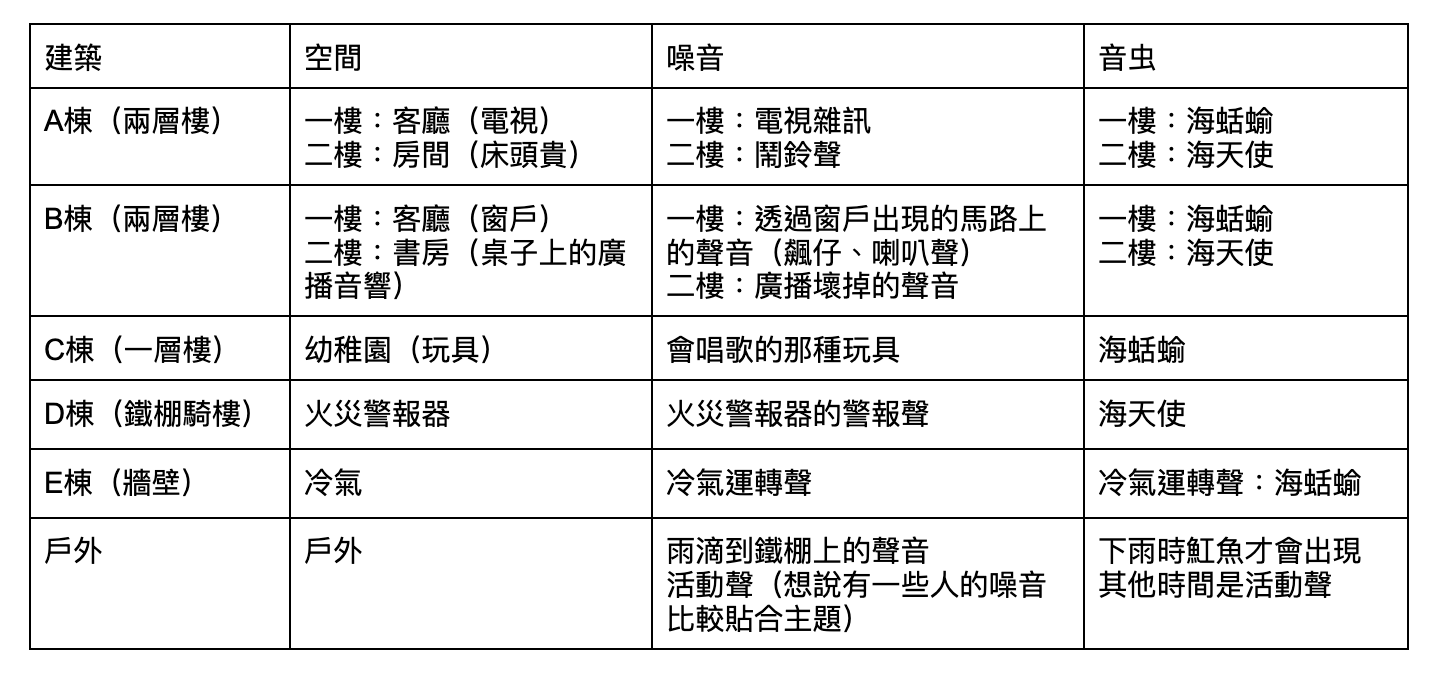
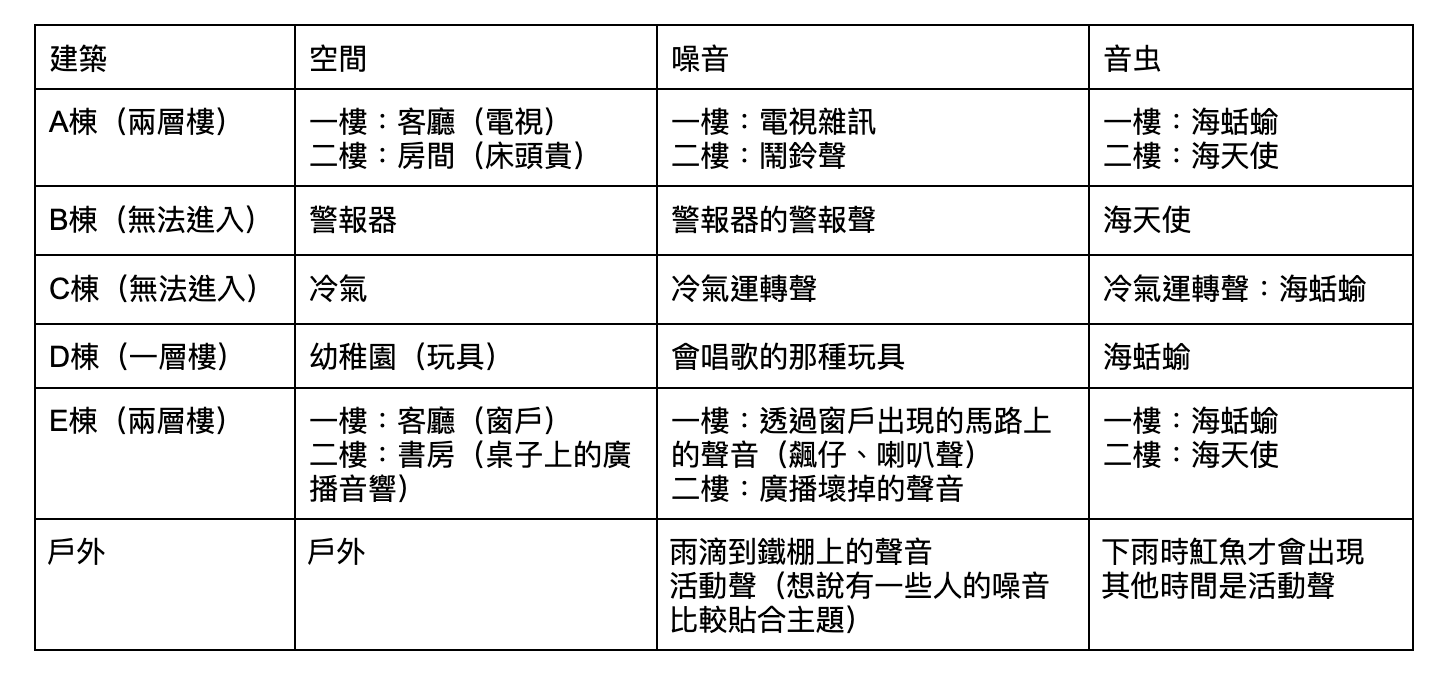
docs: 更新建築物與音虫配置

diff --git a/docs/docs_vr/開發文件/工作包/U2.md b/docs/docs_vr/開發文件/工作包/U2.md
@@ -67,17 +67,30 @@ Visual 保持啟用，由材質透明度隱藏；不要取消物件勾選。
 
 1. 將音檔放 `Assets/_Project/Audio/Sources/`。
 2. 選每個音檔 → Inspector：定位用音檔勾 Force To Mono → Apply。
-3. 選 DesktopLab → Source Clips，Size 10，依[音虫與城市配置](../../開發規格.md#音虫與城市配置)的 Element 欄拖入。Element 7／8 留空，B4 填 Element 9。
+3. 選 DesktopLab → Source Clips，Size 10，依[音虫與城市配置](../../開發規格.md#音虫與城市配置)的素材陣列 Element 欄拖入。Element 7／8 留空，B4 填 Element 9。
 4. Play 後點一個執行中的 Bug 物件，查看 AudioSource：Loop 開、Spatial Blend 1。
 5. 對準一部分後移開，查看 AudioSource Volume 是否保留；再對準繼續降低。
 
 ### 綁定正式城市的聲源
 
-1. 依配置表，在每個聲源旁建立空物件。將它從 **Hierarchy** 拖進 **DesktopLab → Spawn Points**。
-2. 將 **Spawn Variant Codes** 設為同樣的 Size。在對應的 **Element** 填變體代號。例如電視的 Transform 和 `B1` 填在同一格。
-3. **Spawn Rooms** 也用同一順序。室內格接該樓層的 **RoomZone**，戶外格留空。二樓框可走範圍，底部從二樓地板開始，站在一樓的頭部需落在框外。
-4. 放齊 8 款各至少一個點。海天使／海蛞蝓最多 3 群，雨天額外加入 C1。C1 的聲源和碰撞維持原位，`Visual` 在原地打轉。
-5. 預設灰盒保留 **Spawn Variant Codes Size 0**，使用測試點和音色。正式場景掛點後重測電視、廣播、冷氣與戶外雨聲是否各在對應位置。
+1. 在下表各聲源旁建立空物件。街邊的警報器、冷氣掛點要能從街上瞄準，避開外牆碰撞體。等放齊 8 款後，將 **DesktopLab → Spawn Points、Spawn Variant Codes、Spawn Rooms** 都設為 Size 8，依下表逐格接線。
+2. **Spawn Points** 拖入空物件，**Spawn Variant Codes** 輸入同列代號，**Spawn Rooms** 拖入同列樓層的 RoomZone Box Collider。RoomZone 勾 **Is Trigger**，二樓底部從二樓地板開始，站在一樓的頭部需落在框外。
+
+| Element | Spawn Points | Spawn Variant Codes | Spawn Rooms |
+| --- | --- | --- | --- |
+| 0 | A 棟 2F 床頭櫃鬧鐘 | A1 | A 棟 2F RoomZone |
+| 1 | E 棟 2F 書房桌上廣播 | A2 | E 棟 2F RoomZone |
+| 2 | B 棟外側警報器 | A3 | None |
+| 3 | A 棟 1F 客廳電視 | B1 | A 棟 1F RoomZone |
+| 4 | E 棟 1F 客廳窗邊 | B2 | E 棟 1F RoomZone |
+| 5 | D 棟 1F 幼稚園唱歌玩具 | B3 | D 棟 1F RoomZone |
+| 6 | 戶外雨天點 | C1 | None |
+| 7 | C 棟外側冷氣 | B4 | None |
+
+3. B4 的生成點用 Element 7，冷氣音檔用 **Source Clips → Element 9**。Unity 透過 `B4` 代號對應聲源與音檔。
+4. Play 後，確認 E 棟廣播音虫在二樓才可捕捉，B 棟警報與 C 棟冷氣可從街上捕捉。初始群落會隨機選取，未出現測試目標時重開一場。等探索到第 60 秒，確認戶外 C1 加入並在固定聲源周圍打轉。
+
+預設灰盒使用測試點與音色，**Spawn Variant Codes** 保持 Size 0。
 
 缺少音檔的欄位暫用測試音色。來源聲音與紀念旋律聲部是不同素材，不能把同一個音檔誤當兩者已交付。
 

diff --git a/docs/docs_vr/開發規格.md b/docs/docs_vr/開發規格.md
@@ -17,20 +17,20 @@
 
 [聲音配置表](assets/音虫聲音配置.png) · [城市動線圖](assets/VR城市設計圖.png) · [城市尺寸圖](assets/VR城市設計圖-2.png)
 
-城市外框 65 × 25 m。左端出生，經主街與支路探索，右端回收並前往結尾區。下表為美術聲音配置的位置。B／E 棟樓層標示有差異，待確認後再定稿掛點。
+城市外框 65 × 25 m。左端出生，經主街與支路探索，右端回收並前往結尾區。城市圖供尺寸與動線定位。依美術確認的聲音配置圖，A／E 棟可探索 1F 與 2F，D 棟可探索 1F，B／C 棟的音虫在外部循聲捕捉。
 
-| 代號 | 類型 | 來源聲 | 場景掛點 | Element |
+| 代號 | 類型 | 來源聲 | 場景掛點 | 素材陣列 Element |
 | --- | --- | --- | --- | --- |
 | A1 | 海天使 1 | 鬧鐘 | A 棟 2F 房間床頭櫃 | 0 |
-| A2 | 海天使 2 | 廣播壞掉 | B 棟書房桌上廣播。聲音圖標 2F | 1 |
-| A3 | 海天使 3 | 警報 | D 棟鐵棚騎樓火災警報器 | 2 |
+| A2 | 海天使 2 | 廣播壞掉 | E 棟 2F 書房桌上廣播 | 1 |
+| A3 | 海天使 3 | 警報 | B 棟外側警報器 | 2 |
 | B1 | 海蛞蝓 1 | 電視雜訊 | A 棟 1F 客廳電視 | 3 |
-| B2 | 海蛞蝓 2 | 飆仔 | B 棟 1F 客廳窗邊，循馬路傳入的聲音 | 4 |
-| B3 | 海蛞蝓 3 | 玩具 | C 棟 1F 幼稚園唱歌玩具 | 5 |
-| B4 | 海蛞蝓 4 | 冷氣 | E 棟外牆冷氣 | 9 |
+| B2 | 海蛞蝓 2 | 飆仔 | E 棟 1F 客廳窗邊，循馬路傳入的聲音 | 4 |
+| B3 | 海蛞蝓 3 | 玩具 | D 棟 1F 幼稚園唱歌玩具 | 5 |
+| B4 | 海蛞蝓 4 | 冷氣 | C 棟外側冷氣 | 9 |
 | C1 | 魟魚 | 下雨 | 戶外雨天點，靠近鐵棚 | 6 |
 
-同時最多 3 群海天使／海蛞蝓，雨天加 1 群 C1。把聲源分在不同方向，避免同棟上下樓的聲音難以分辨。可捕捉聲從掛點發出，戶外活動聲與雨打鐵棚的背景聲另外混音。Source Clips、Variant Prefabs、VariantCatalog 和捕捉成功預覽共用上表的 Element。7／8 留給舊成果 C2／C3。
+同時最多 3 群海天使／海蛞蝓，雨天加 1 群 C1。把聲源分在不同方向，避免同棟上下樓的聲音難以分辨。可捕捉聲從掛點發出，戶外活動聲與雨打鐵棚的背景聲另外混音。Source Clips、Variant Prefabs、VariantCatalog 和捕捉成功預覽共用上表的素材索引，7／8 留給舊成果 C2／C3。場景的生成陣列順序見 [U2 固定聲源接線](開發文件/工作包/U2.md#綁定正式城市的聲源)。
 
 ### 群落、顯現、進度與 SAN
 

diff --git a/docs/docs_vr/開發文件/共用/整合與驗收.md b/docs/docs_vr/開發文件/共用/整合與驗收.md
@@ -33,6 +33,7 @@
 | 桌面暫停／繼續 | 在捕捉中按 P，再按 P 並移動滑鼠 | 暫停時釋放游標、停止計時。繼續時鎖回游標並可轉頭。再次對準同群接續進度。 |
 | Mask | 照牆、對準懸空群落、瞄空處、指向 UI | 前兩者顯示光罩，瞄空處與 UI 接管時收起。只有有效對準才計捕捉進度。 |
 | 室內音虫 | 從屋外隔牆聽、在空門洞外瞄準，再走進屋內 | 屋外仍能循聲且較小聲，隔牆較悶。門外照到也不計秒。進屋後聲音平滑恢復，可捕捉。 |
+| 正式城市聲源 | 到 E 棟 1F／2F，並在街上瞄準 B 棟警報器與 C 棟冷氣 | 廣播音虫進入 E 棟 2F 才能捕捉。警報與冷氣音虫在建物外可各自循聲捕捉。 |
 | U2 頭戴驗收（X1 協助） | 戴 Quest 核對左右眼顯示與遊戲聲源 | 貼圖、透明度、Mask 與循聲正常。 |
 | 顯現基準 | 進度 40%後移開 | 仍顯現 40%。 |
 | 聲音 | 同群捕捉至 50%，移開再繼續 | 音量係數保留 0.5，成功停聲；其他群不變。 |

diff --git a/docs/docs_vr/待確認與驗證清單.md b/docs/docs_vr/待確認與驗證清單.md
@@ -11,7 +11,6 @@
 | 待確認 | 影響 |
 | --- | --- |
 | 變體素材 | 8 款聲源已定。待交同造型的場景簡化材質版、捕捉器螢幕精緻材質版及對應聲部。 |
-| B／E 樓層 | 聲音配置圖把廣播放 B 棟 2F、冷氣放 E 棟外牆。城市圖標 A／E 為兩層。待確認可走樓層與最終掛點。 |
 | 結尾素材 | 實測右端結尾區的觸發範圍與黑幕可讀性。待交正式開信影格、FPS 及三版正文。 |
 | Quest 套裝歸還日 | 首輪測試已排。記錄頭戴、控制器與 Link 線的歸還日，供後續重測排程。 |
 
